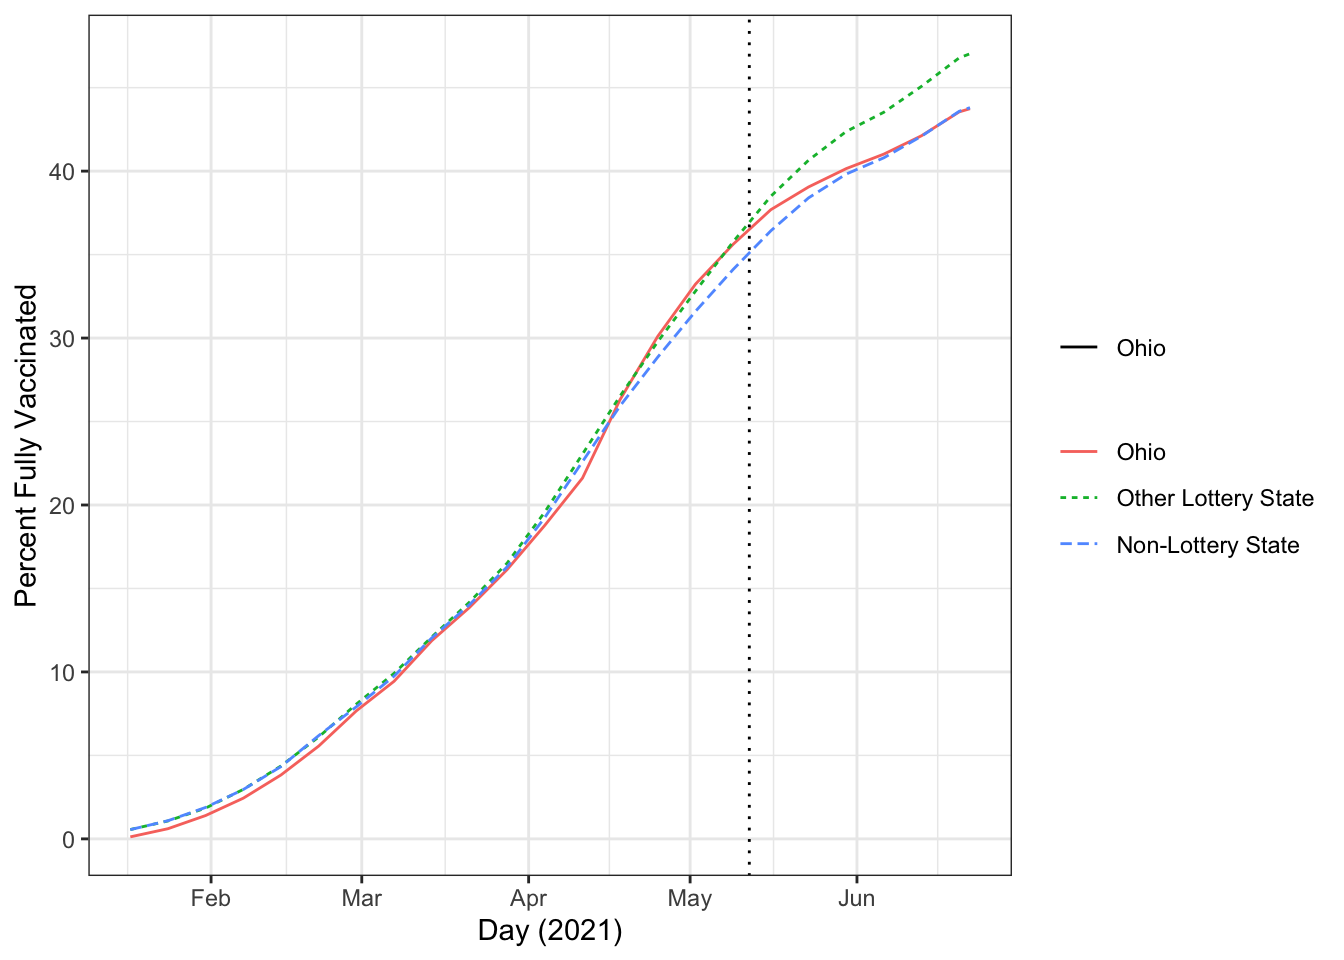
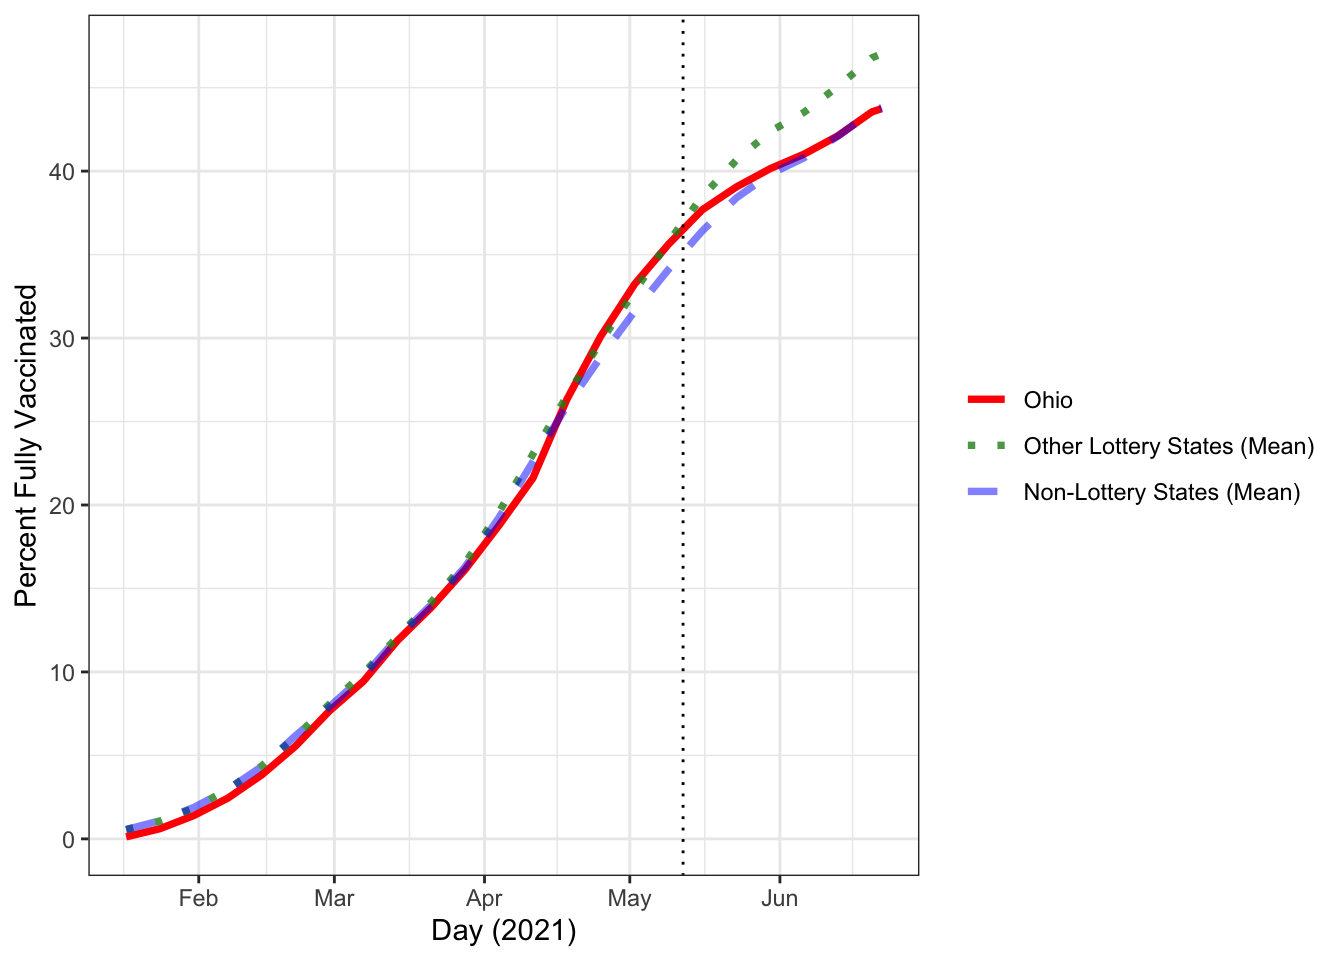
RS: updated references

diff --git a/analysis/lottery-sc-handout.html b/analysis/lottery-sc-handout.html
@@ -197,12 +197,27 @@ pre > code.sourceCode > span > a:first-child::before { text-decoration: underlin
 <div class="sourceCode cell-code" id="cb7"><pre class="sourceCode r code-with-copy"><code class="sourceCode r"><span id="cb7-1"><a href="#cb7-1" aria-hidden="true" tabindex="-1"></a><span class="fu">ggplot</span>(<span class="at">data=</span>lang_avg,</span>
 <span id="cb7-2"><a href="#cb7-2" aria-hidden="true" tabindex="-1"></a>       <span class="at">mapping=</span><span class="fu">aes</span>(<span class="at">linetype=</span>type,<span class="at">color=</span>type,<span class="at">alpha=</span>type,</span>
 <span id="cb7-3"><a href="#cb7-3" aria-hidden="true" tabindex="-1"></a>                   <span class="at">x=</span>last_day,<span class="at">y=</span>full_vax_avg)) <span class="sc">+</span></span>
-<span id="cb7-4"><a href="#cb7-4" aria-hidden="true" tabindex="-1"></a>  <span class="fu">scale_alpha_manual</span>(<span class="at">name=</span><span class="cn">NULL</span>, <span class="at">breaks=</span><span class="fu">c</span>(<span class="st">"Ohio"</span>,<span class="st">"Other Lottery States (Mean)"</span>,<span class="st">"Non-Lottery States (Mean)"</span>),</span>
-<span id="cb7-5"><a href="#cb7-5" aria-hidden="true" tabindex="-1"></a>                     <span class="at">values=</span><span class="fu">c</span>(<span class="dv">1</span>,<span class="fl">0.8</span>,<span class="fl">0.5</span>)) <span class="sc">+</span></span>
-<span id="cb7-6"><a href="#cb7-6" aria-hidden="true" tabindex="-1"></a>  <span class="fu">geom_line</span>() <span class="sc">+</span> <span class="fu">theme_bw</span>() <span class="sc">+</span></span>
-<span id="cb7-7"><a href="#cb7-7" aria-hidden="true" tabindex="-1"></a>  <span class="fu">geom_vline</span>(<span class="at">xintercept=</span>Ohio_ann, <span class="at">linetype=</span><span class="st">"dotted"</span>) <span class="sc">+</span></span>
-<span id="cb7-8"><a href="#cb7-8" aria-hidden="true" tabindex="-1"></a>  <span class="fu">labs</span>(<span class="at">x=</span><span class="st">"Day (2021)"</span>, <span class="at">y=</span><span class="st">"Percent Fully Vaccinated"</span>,</span>
-<span id="cb7-9"><a href="#cb7-9" aria-hidden="true" tabindex="-1"></a>       <span class="at">linetype=</span><span class="cn">NULL</span>,<span class="at">color=</span><span class="cn">NULL</span>)</span></code><button title="Copy to Clipboard" class="code-copy-button"><i class="bi"></i></button></pre></div>
+<span id="cb7-4"><a href="#cb7-4" aria-hidden="true" tabindex="-1"></a>  <span class="fu">geom_line</span>(<span class="at">linewidth=</span><span class="fl">1.3</span>) <span class="sc">+</span> <span class="fu">theme_bw</span>() <span class="sc">+</span></span>
+<span id="cb7-5"><a href="#cb7-5" aria-hidden="true" tabindex="-1"></a>  <span class="fu">scale_alpha_manual</span>(<span class="at">name=</span><span class="cn">NULL</span>, </span>
+<span id="cb7-6"><a href="#cb7-6" aria-hidden="true" tabindex="-1"></a>                     <span class="at">breaks=</span><span class="fu">c</span>(<span class="st">"Ohio"</span>,<span class="st">"Other Lottery State"</span>,</span>
+<span id="cb7-7"><a href="#cb7-7" aria-hidden="true" tabindex="-1"></a>                              <span class="st">"Non-Lottery State"</span>),</span>
+<span id="cb7-8"><a href="#cb7-8" aria-hidden="true" tabindex="-1"></a>                     <span class="at">labels=</span><span class="fu">c</span>(<span class="st">"Ohio"</span>,<span class="st">"Other Lottery States (Mean)"</span>,</span>
+<span id="cb7-9"><a href="#cb7-9" aria-hidden="true" tabindex="-1"></a>                              <span class="st">"Non-Lottery States (Mean)"</span>),</span>
+<span id="cb7-10"><a href="#cb7-10" aria-hidden="true" tabindex="-1"></a>                     <span class="at">values=</span><span class="fu">c</span>(<span class="dv">1</span>,<span class="fl">0.8</span>,<span class="fl">0.5</span>)) <span class="sc">+</span></span>
+<span id="cb7-11"><a href="#cb7-11" aria-hidden="true" tabindex="-1"></a>  <span class="fu">scale_linetype_manual</span>(<span class="at">name=</span><span class="cn">NULL</span>,</span>
+<span id="cb7-12"><a href="#cb7-12" aria-hidden="true" tabindex="-1"></a>                        <span class="at">breaks=</span><span class="fu">c</span>(<span class="st">"Ohio"</span>,<span class="st">"Other Lottery State"</span>,</span>
+<span id="cb7-13"><a href="#cb7-13" aria-hidden="true" tabindex="-1"></a>                              <span class="st">"Non-Lottery State"</span>),</span>
+<span id="cb7-14"><a href="#cb7-14" aria-hidden="true" tabindex="-1"></a>                        <span class="at">labels=</span><span class="fu">c</span>(<span class="st">"Ohio"</span>,<span class="st">"Other Lottery States (Mean)"</span>,</span>
+<span id="cb7-15"><a href="#cb7-15" aria-hidden="true" tabindex="-1"></a>                              <span class="st">"Non-Lottery States (Mean)"</span>),</span>
+<span id="cb7-16"><a href="#cb7-16" aria-hidden="true" tabindex="-1"></a>                        <span class="at">values=</span><span class="fu">c</span>(<span class="st">"solid"</span>,<span class="st">"dotted"</span>,<span class="st">"dashed"</span>)) <span class="sc">+</span></span>
+<span id="cb7-17"><a href="#cb7-17" aria-hidden="true" tabindex="-1"></a>  <span class="fu">scale_color_manual</span>(<span class="at">name=</span><span class="cn">NULL</span>,</span>
+<span id="cb7-18"><a href="#cb7-18" aria-hidden="true" tabindex="-1"></a>                     <span class="at">breaks=</span><span class="fu">c</span>(<span class="st">"Ohio"</span>,<span class="st">"Other Lottery State"</span>,</span>
+<span id="cb7-19"><a href="#cb7-19" aria-hidden="true" tabindex="-1"></a>                              <span class="st">"Non-Lottery State"</span>),</span>
+<span id="cb7-20"><a href="#cb7-20" aria-hidden="true" tabindex="-1"></a>                     <span class="at">labels=</span><span class="fu">c</span>(<span class="st">"Ohio"</span>,<span class="st">"Other Lottery States (Mean)"</span>,</span>
+<span id="cb7-21"><a href="#cb7-21" aria-hidden="true" tabindex="-1"></a>                              <span class="st">"Non-Lottery States (Mean)"</span>),</span>
+<span id="cb7-22"><a href="#cb7-22" aria-hidden="true" tabindex="-1"></a>                     <span class="at">values=</span><span class="fu">c</span>(<span class="st">"red"</span>,<span class="st">"forestgreen"</span>,<span class="st">"blue"</span>)) <span class="sc">+</span></span>
+<span id="cb7-23"><a href="#cb7-23" aria-hidden="true" tabindex="-1"></a>  <span class="fu">geom_vline</span>(<span class="at">xintercept=</span>Ohio_ann, <span class="at">linetype=</span><span class="st">"dotted"</span>) <span class="sc">+</span></span>
+<span id="cb7-24"><a href="#cb7-24" aria-hidden="true" tabindex="-1"></a>  <span class="fu">labs</span>(<span class="at">x=</span><span class="st">"Day (2021)"</span>, <span class="at">y=</span><span class="st">"Percent Fully Vaccinated"</span>)</span></code><button title="Copy to Clipboard" class="code-copy-button"><i class="bi"></i></button></pre></div>
 <div class="cell-output-display">
 <div class="quarto-figure quarto-figure-center">
 <figure class="figure">
@@ -672,13 +687,13 @@ Avg Estimated Bias: NA
 Inference type: Conformal inference
 
  Time Estimate 95% CI Lower Bound 95% CI Upper Bound p Value
-   19   -0.355             -2.498              1.788   0.542
-   20   -0.837             -2.980              1.306   0.475
-   21   -0.961             -3.104              1.182   0.494
-   22   -1.257             -3.400              0.887   0.508
-   23   -1.272             -3.415              0.871   0.727
-   24   -1.220             -3.363              0.923   0.714
-   25   -1.266             -3.409              0.878   0.795</code></pre>
+   19   -0.355             -2.498              1.701   0.562
+   20   -0.837             -2.980              1.306   0.506
+   21   -0.961             -3.104              1.182   0.498
+   22   -1.257             -3.400              0.887   0.498
+   23   -1.272             -3.415              0.871   0.729
+   24   -1.220             -3.363              0.923   0.719
+   25   -1.266             -3.409              0.878   0.771</code></pre>
 </div>
 </div>
 <p>We can then compare the original SC fit from the <code>tidysynth</code> package to the <code>augsynth</code> fit with SC on but outcome model and fixed effects off. Note that the <code>augsynth</code> plot calls can take a minute to run.</p>
@@ -1158,7 +1173,7 @@ Call:
 multisynth(form = form, unit = !!enquo(unit), time = !!enquo(time), 
     data = data)
 
-Average ATT Estimate (Std. Error): -0.170  (2.376)
+Average ATT Estimate (Std. Error): -0.170  (2.310)
 
 Global L2 Imbalance: 0.034
 Scaled Global L2 Imbalance: 0.042
@@ -1169,8 +1184,8 @@ Scaled Individual L2 Imbalance: 0.112
 Percent improvement from uniform individual weights: 88.8   
 
  Time Since Treatment   Level   Estimate Std.Error lower_bound upper_bound
-                    0 Average -0.1157730  2.291710   -4.194194    4.634949
-                    1 Average -0.2238981  2.463291   -4.473225    4.867071</code></pre>
+                    0 Average -0.1157730  2.233430   -4.053581    4.497529
+                    1 Average -0.2238981  2.389258   -4.445980    4.858593</code></pre>
 </div>
 </div>
 <p>The average effect is estimated to be -0.170, increasing from -0.115 in the first treated period to -0.224 in the second, although there are large standard errors throughout. We can plot the fit, which defaults to plotting all individual fits and the average:</p>

diff --git a/presentation/03-SC.html b/presentation/03-SC.html
@@ -364,7 +364,7 @@ Lee Kennedy-Shaffer, PhD
 <p><strong>Note</strong></p>
 </div>
 <div class="callout-content">
-<p>Synthetic control can accommodate non-parallel trends</p>
+<p>Synthetic control can accommodate non-parallel trends without requiring explicit time trend modeling.</p>
 </div>
 </div>
 </div>
@@ -496,9 +496,17 @@ Lee Kennedy-Shaffer, PhD
 <h2>Key Requirements</h2>
 <div class="quarto-figure quarto-figure-center">
 <figure>
-<p><a href="https://doi.org/10.1257/jel.20191450"><img data-src="images/SC/Abadie2021cite.png" class="quarto-figure quarto-figure-center" alt="Title of Abadie (2021)" width="500" height="150"></a></p>
+<p><a href="https://doi.org/10.1257/jel.20191450"><img data-src="images/SC/Abadie2021cite.png" class="quarto-figure quarto-figure-center" alt="Title of Abadie (2021)" width="400" height="180"></a></p>
 </figure>
 </div>
+<div class="quarto-figure quarto-figure-center">
+<figure>
+<p><a href="https://doi.org/10.1093/aje/kwab211"><img data-src="images/SC/Bonander2021cite.png" class="quarto-figure quarto-figure-center" alt="Title for Bonander et al. (2021)" width="626"></a></p>
+</figure>
+</div>
+</section>
+<section id="key-requirements-1" class="slide level2">
+<h2>Key Requirements</h2>
 <div>
 <ul>
 <li class="fragment">No anticipation</li>

diff --git a/References.md b/References.md
@@ -48,6 +48,8 @@ Compiled by Lee Kennedy-Shaffer, PhD, in May–June 2024. See <https://leekshaff
 
 -   Matthay EC, Hagan E, Gottlieb LM, et al. Alternative causal inference methods in population health research: evaluating tradeoffs and triangulating evidence. *SSM - Popul Health* 2020;**10**:100526. <https://doi.org/10.1016/j.ssmph.2019.100526>.
 
+-   Bonander C, Humphreys D, Esposti MD. Synthetic control methods for the evaluation of single-unit interventions in epidemiology: A tutorial. *Am J Epidemiol* 2021;**190**:2700-2711. <https://doi.org/10.1093/aje/kwab211>.
+
 -   Matthay EC, Glymour MM. Causal inference challenges and new directions for epidemiologic research on the health effects of social policies. *Curr Epidemiol Rep* 2022;**9**:22-37. <https://doi.org/10.1007/s40471-022-00288-7>.
 
 -   Nianogo RA, Benmarhina T, O'Neill S. A comparison of quasi-experimental methods with data before and after an intervention: an introduction for epidemiologists and a simulation study. *Int J Epidemiol* 2023;**52**:1522-1533. <https://doi.org/10.1093/ije/dyad032>.
